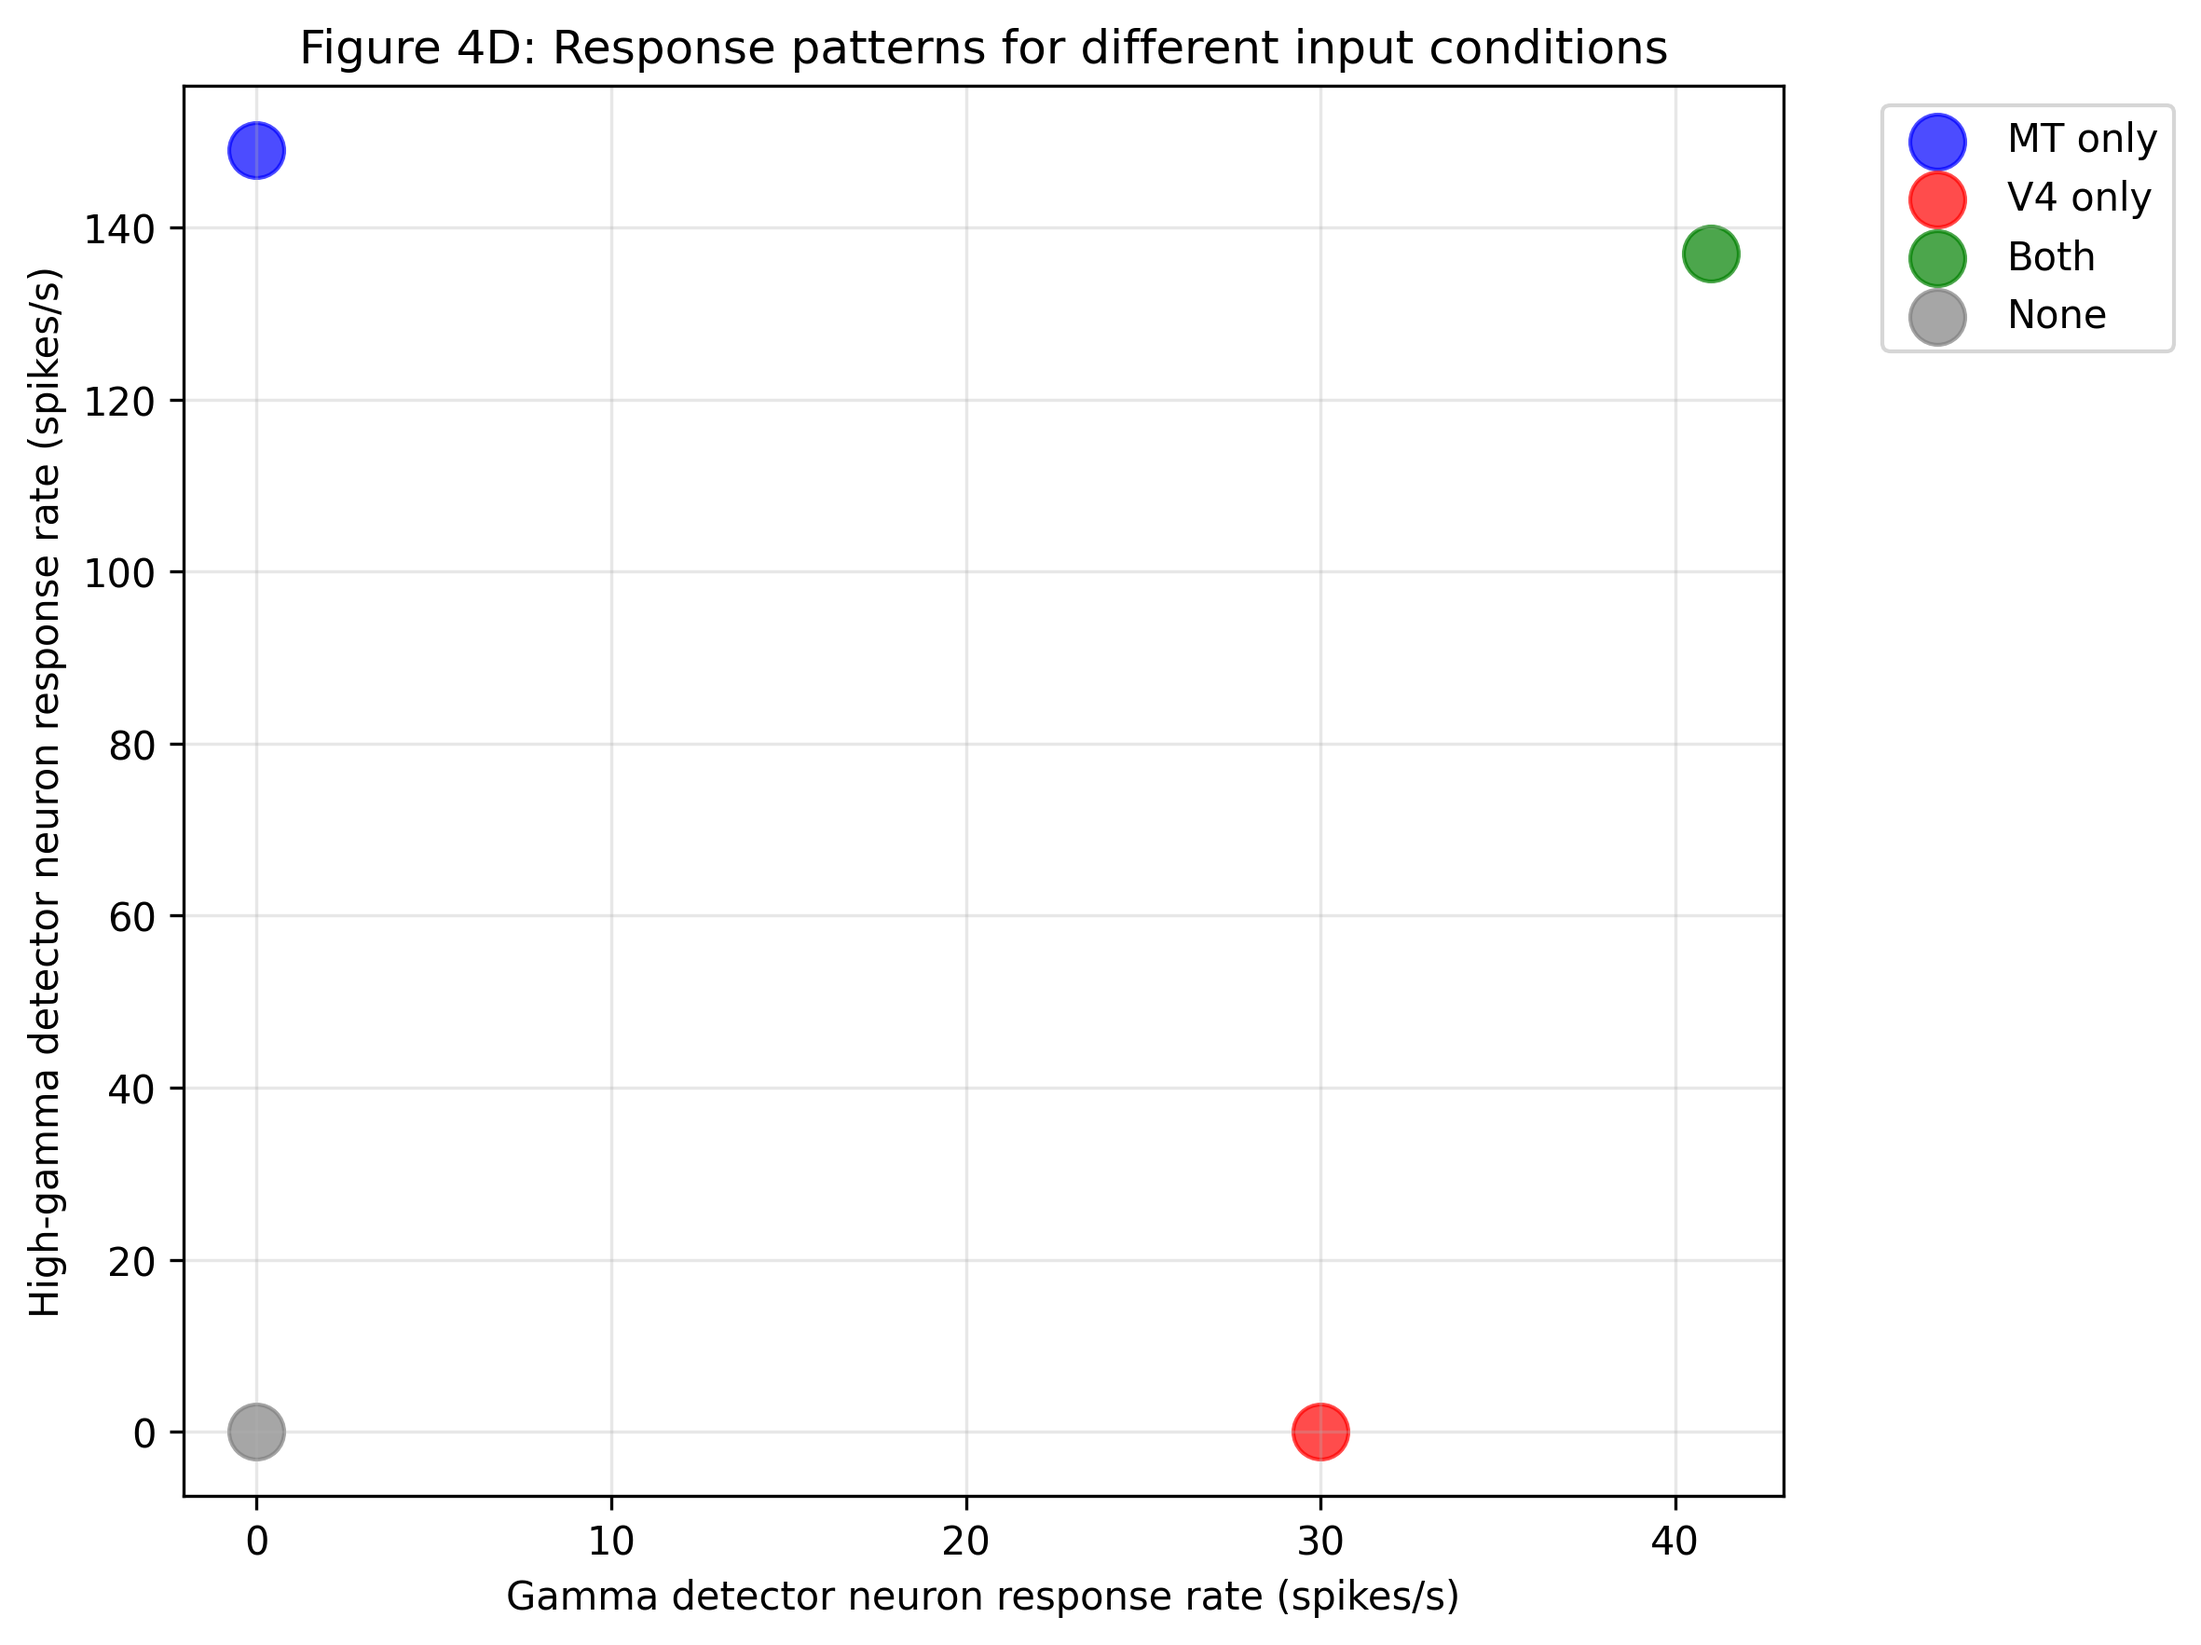
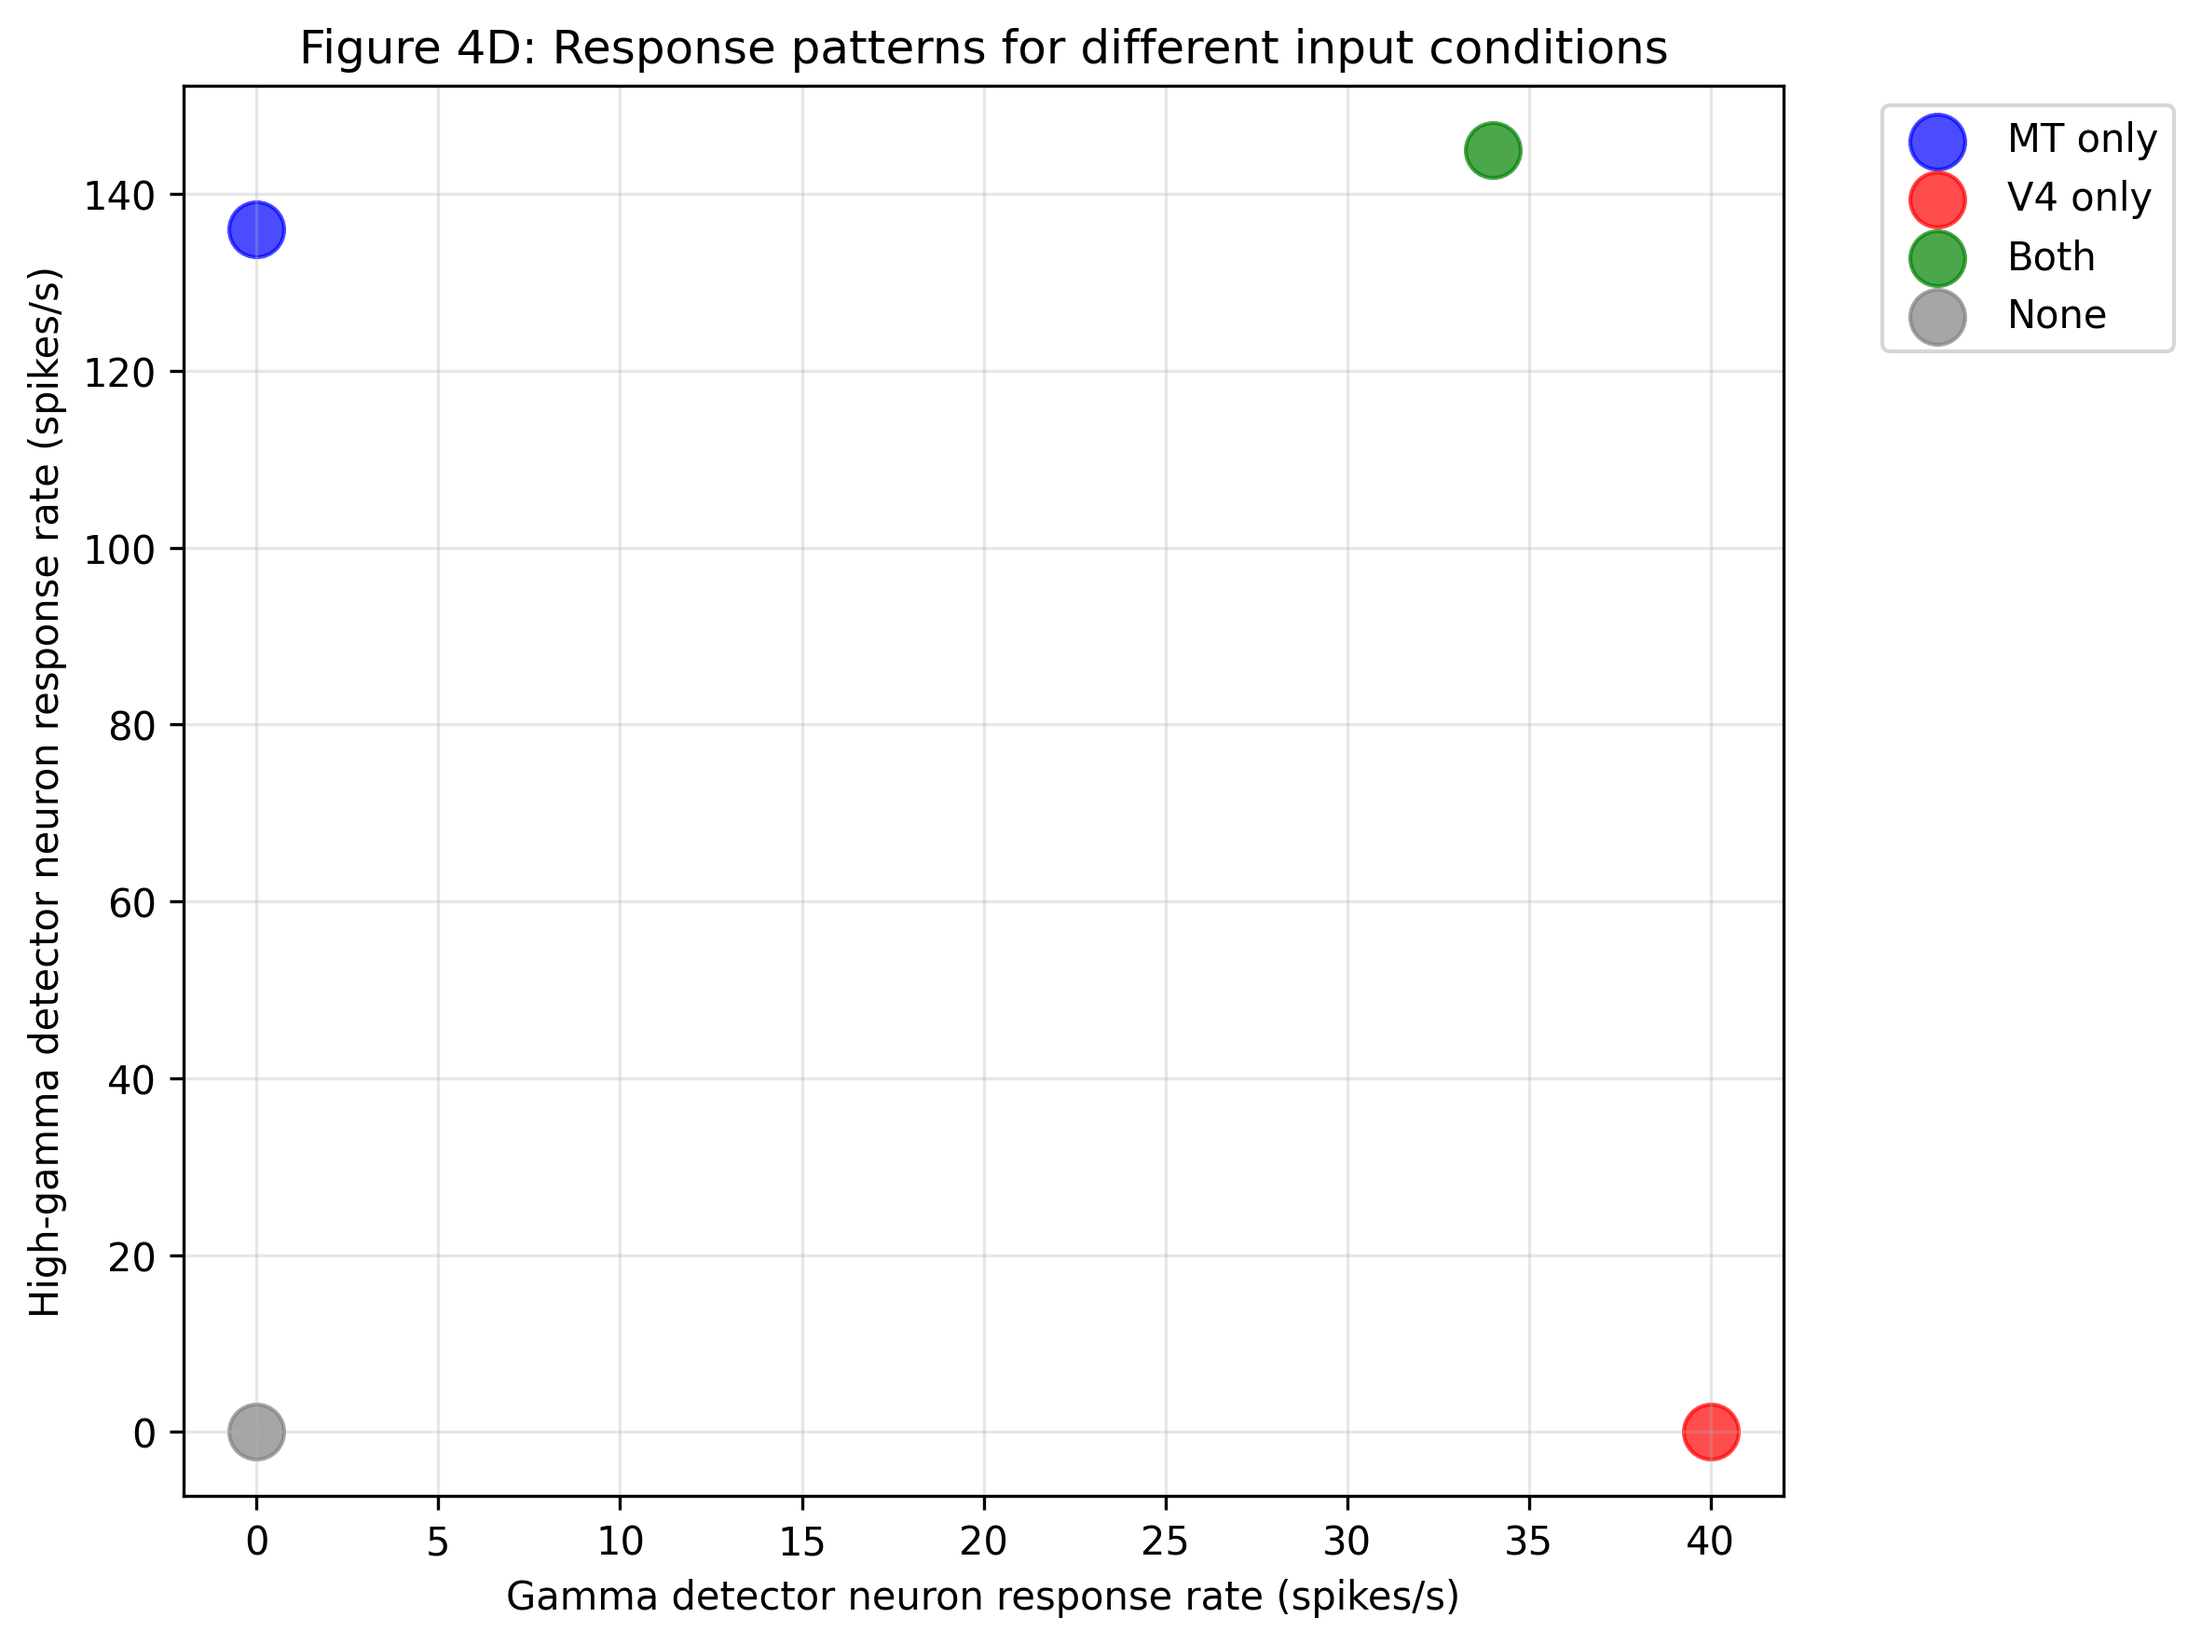
Significantly increase neuron sampling to 12 conditions

diff --git a/model.py b/model.py
@@ -158,14 +158,20 @@ class NeuralSynchronyModel:
                 self.gamma_neuron.threshold = threshold
                 self.high_gamma_neuron.threshold = threshold
                 
-                # 六种条件：仅MT, 仅V4, 两者都有, 两者都没有, MT强V4弱, MT弱V4强
+                # 增加神经元采样数量 - 从6种条件扩展到12种条件
                 conditions = [
                     (True, False, "MT only"),
                     (False, True, "V4 only"),
                     (True, True, "Both"),
                     (False, False, "None"),
-                    (True, 0.5, "MT strong V4 weak"),
-                    (0.5, True, "MT weak V4 strong")
+                    (1.0, 0.8, "MT strong V4 moderate"),
+                    (0.8, 1.0, "MT moderate V4 strong"),
+                    (0.6, 0.2, "MT moderate V4 weak"),
+                    (0.2, 0.6, "MT weak V4 moderate"),
+                    (0.4, 0.4, "Equal moderate input"),
+                    (0.3, 0.7, "Slight V4 bias"),
+                    (0.7, 0.3, "Slight MT bias"),
+                    (0.1, 0.1, "Very weak input")
                 ]
                 
                 X = []
